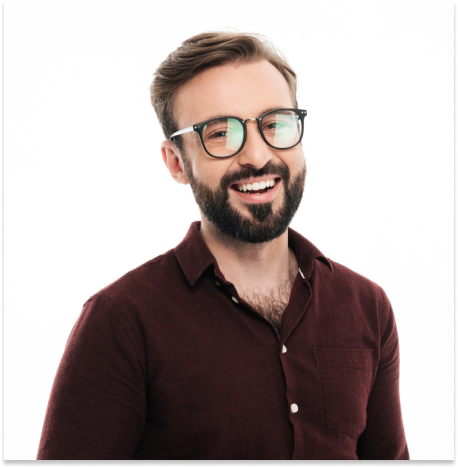
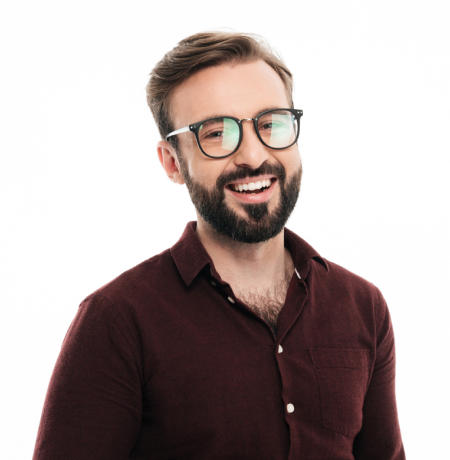
+

diff --git a/index.html b/index.html
@@ -231,10 +231,10 @@
             <li class="members-list__item">
               <img
                 srcset="./images/team/member1-270.jpg 270w, ./images/team/member1-354.jpg 354w, ./images/team/member1-450.jpg 450w, ./images/team/member1-708.jpg 708w, ./images/team/member1-900.jpg 900w"
-                sizes="(min-width: 1200px) 270px, (min-width: 768px) 354px, (max-width: 767px) 450px"
+                sizes="(min-width: 1200px) 270px, (min-width: 768px) 354px, (max-width: 767px) 450px, 100vw"
                 src="./images/team/member1-270.jpg"
                 alt="Product Designer"
-                width="270"
+                
               />
               <div class="team-member">
                 <h3 class="team-member__name" lang="ru">Игорь Демьяненко</h3>
@@ -279,9 +279,10 @@
             </li>
             <li class="members-list__item">
               <img
-                src="./images/team/member2.jpg"
-                alt="Frontend Developer"
-                width="270"
+              srcset="./images/team/member2-270.jpg 270w, ./images/team/member2-354.jpg 354w, ./images/team/member2-450.jpg 450w, ./images/team/member2-708.jpg 708w, ./images/team/member2-900.jpg 900w"
+              sizes="(min-width: 1200px) 270px, (min-width: 768px) 354px, (max-width: 767px) 450px, 100vw"
+              src="./images/team/member2-270.jpg"
+              alt="Frontend Developer"
               />
               <div class="team-member">
                 <h3 class="team-member__name" lang="ru">Ольга Репина</h3>
